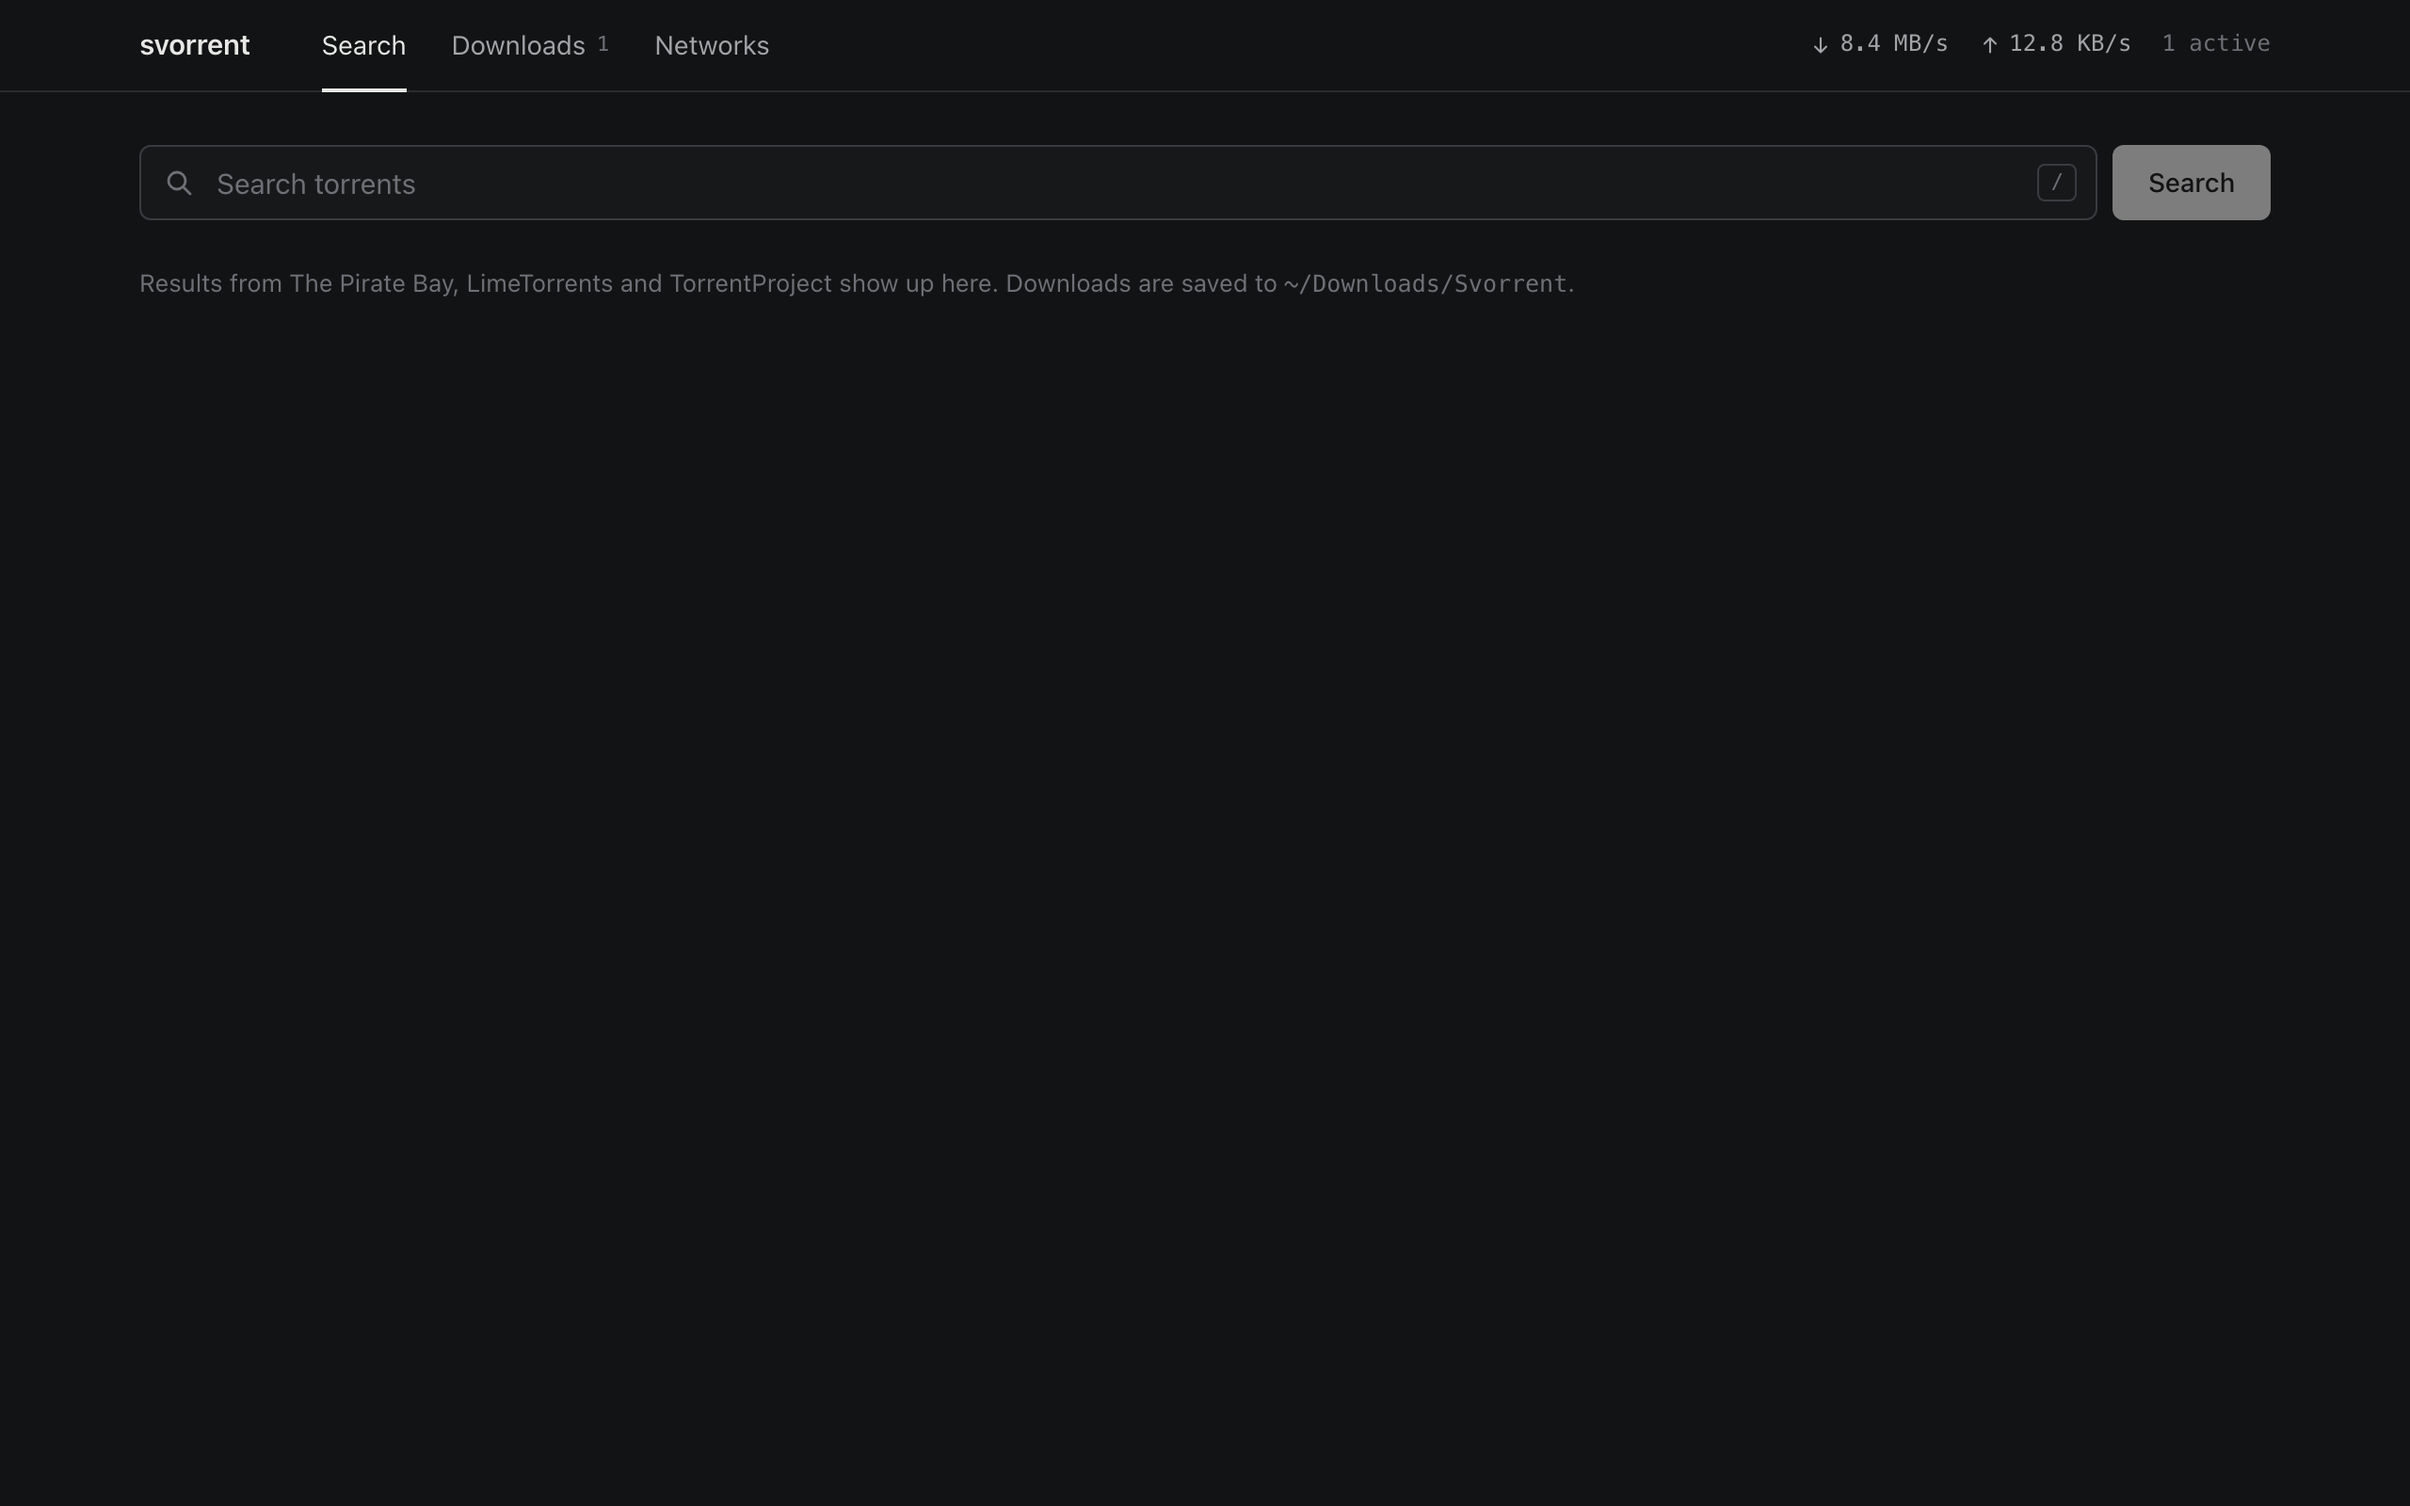
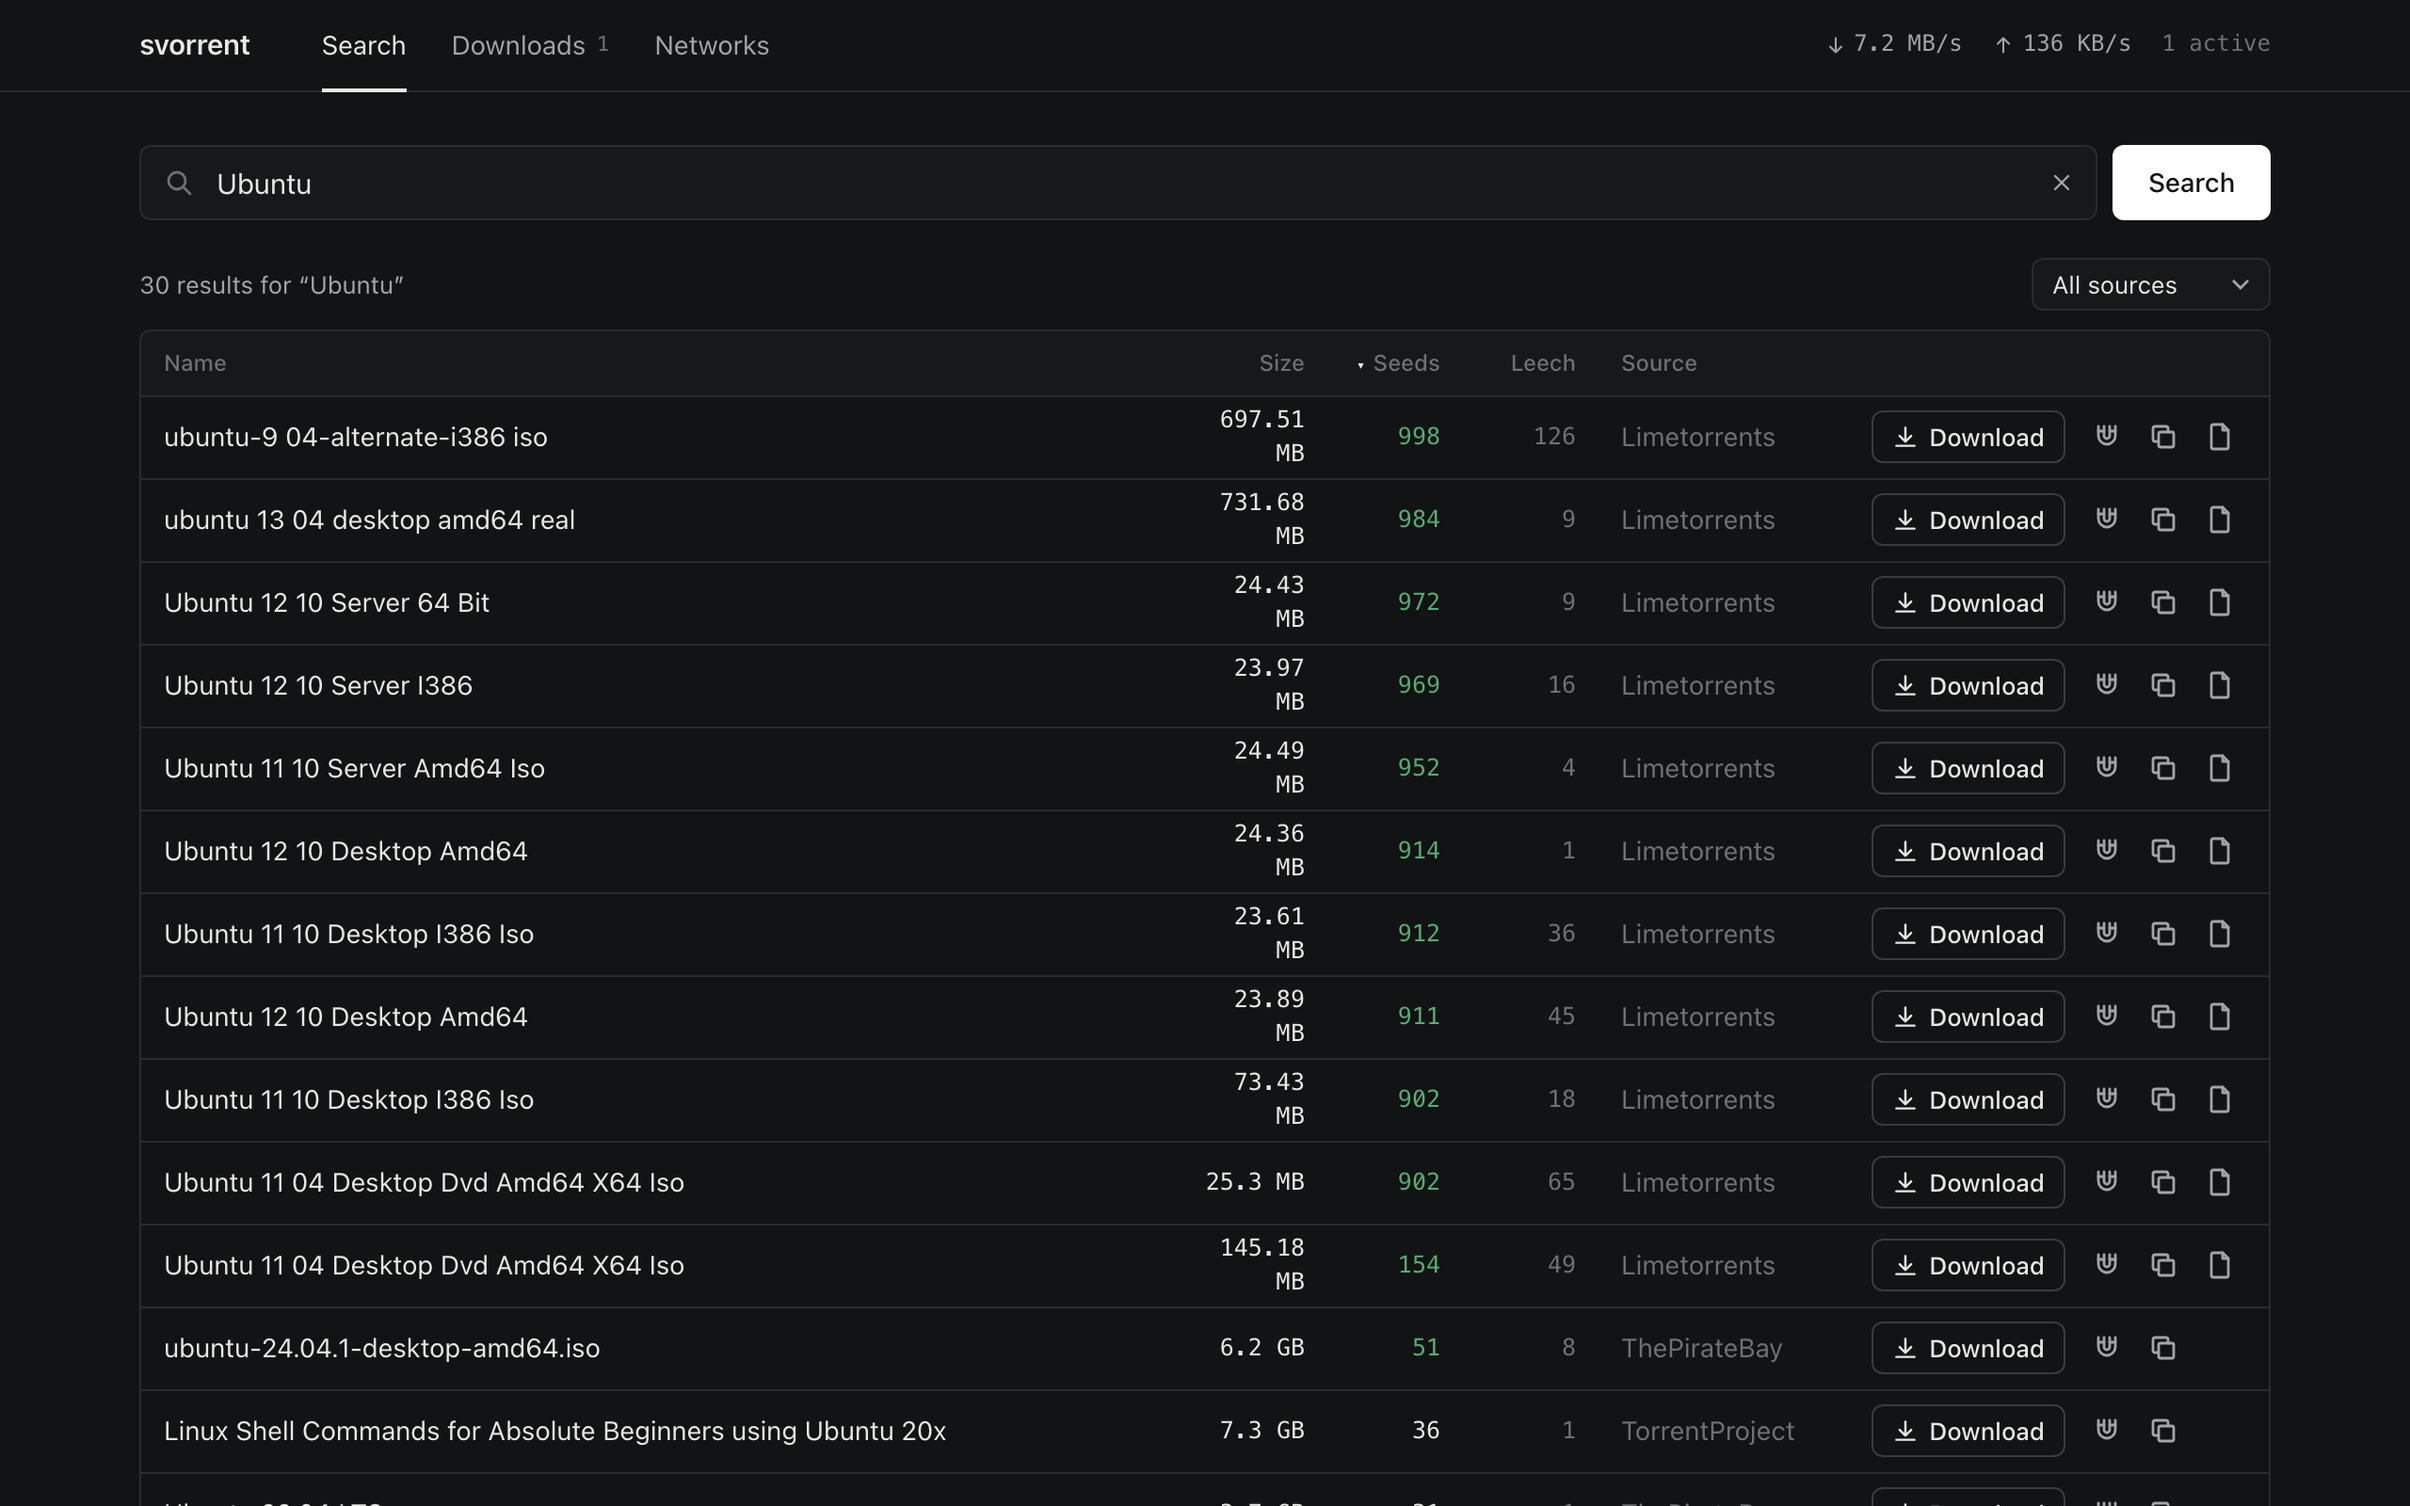
docs: reorder sections to Search -> Downloads -> Networks and capture populated search results

diff --git a/README.md b/README.md
@@ -1,49 +1,54 @@
 # Svorrent
 
-Svorrent is a local BitTorrent client and indexing engine built with Node.js, WebTorrent, and React. It implements sequential piece streaming, multi-network socket bonding across physical interfaces, offline GeoIP swarm visualization, and continuous buffer-free media playback.
+Svorrent is a local BitTorrent client and indexing engine built with Node.js, WebTorrent, and React. It implements multi-tracker search aggregation, sequential piece streaming with buffer-free playback, per-torrent swarm visualization, and multi-network socket bonding across physical interfaces.
 
 ---
 
-## Key Features
+## Features & Interface Workflow
 
-### 1. Multi-Interface Network Bonding
-Svorrent bonds multiple active network interfaces at the OS kernel socket level to aggregate download bandwidth across connections.
-- Outgoing peer TCP/uTP connections bind round-robin or proportionally across available network devices (`en0` Wi-Fi, `feth0` USB tether, `en1` Ethernet, etc.).
-- An autonomous Android tethering daemon (`scripts/tether-daemon.js`) polls for connected Android handsets via `adb`, configures RNDIS/NCM tethering mode automatically without passwords, assigns local DHCP leases, and establishes multi-path routes.
-
-![Network Bonding Interface](docs/screenshots/networks.png)
-
-### 2. Buffer-Free Streaming & Media Playback
-Instead of requiring a torrent to complete before playback, Svorrent calculates an objective buffer threshold and streams growing files directly into VLC or the system default video player.
-- The first 25 MB and initial 20 pieces are marked critical to ensure container headers, audio track definitions, and chapter indices download immediately.
-- Container runtimes are parsed asynchronously using `ffprobe`.
-- Svorrent continuously evaluates the physical streaming condition:
-  $$\text{Download ETA} \times 1.20 \le \text{Video Runtime}$$
-- The playback button remains disabled while buffering, displaying the exact byte deficit and estimated time remaining on hover. Once the safety margin is reached, the button enables and launches VLC directly against the expanding file on disk.
-
-![Downloads Manager and Streaming Controls](docs/screenshots/downloads.png)
-
-### 3. Swarm Topology & GeoIP Inspector
-Every active download includes an integrated swarm inspector accessible from the downloads list.
-- Renders an interactive vector SVG map displaying worldwide peer distributions without WebGL dependencies.
-- Translates remote peer IPs to physical countries and cities via offline `geoip-lite` databases.
-- Categorizes peer wires by physical network interface (Wi-Fi, USB Tether, Ethernet) with individual throughput counters.
-- Identifies remote client software signatures (qBittorrent, Transmission, libtorrent, Deluge).
-
-![Swarm Map and Topology Inspector](docs/screenshots/swarm_modal.png)
-
-### 4. Sequential Piece Allocation & Crash Recovery
-BitTorrent swarms natively distribute pieces out of order. Svorrent forces strict sequential piece acquisition to support in-progress media playback and predictable disk writes.
-- Bitfield verification checkpoints write to `session.json` on every verified piece.
-- If the daemon crashes or the system loses power, Svorrent reads existing disk blocks on startup and verifies bitfields against piece hashes, avoiding full re-downloads.
-- A local folder scanner detects orphaned or interrupted files in `~/Downloads/Svorrent` and matches them to magnet hashes for one-click resumption.
-
-### 5. Multi-Indexer Search Aggregation
-- Concurrently queries public indexers (The Pirate Bay, LimeTorrents, TorrentProject).
-- Deduplicates incoming results, normalizes byte representations, and sorts by seeders, leechers, or file size.
+### 1. Multi-Tracker Search Aggregation
+The search interface aggregates results concurrently across public indexers (including The Pirate Bay, LimeTorrents, and TorrentProject).
+- Queries are deduplicated, normalized, and sortable by seeds, leechers, file size, or indexer source.
 - Magnets launch directly into the download pipeline with a single click.
 
 ![Search Interface](docs/screenshots/search.png)
+
+### 2. Downloads Manager & Streaming Controls
+The downloads dashboard manages active transfers, sequential chunk scheduling, and instant media playback.
+
+![Downloads Manager](docs/screenshots/downloads.png)
+
+#### 2.1 Sequential Piece Scheduling & Crash Recovery
+- Forces sequential piece acquisition (from piece 0 to piece N) to enable immediate streaming instead of random piece distribution.
+- Prioritizes container headers and initial chapters (first 25 MB and initial 20 pieces) with critical queue weighting.
+- Atomic bitfield state checkpoints write to `session.json` on every verified block, ensuring that daemon restarts or power interruptions resume immediately from existing disk blocks without re-checking or re-downloading.
+- Scans `~/Downloads/Svorrent` to detect orphaned files and halfway downloads, matching them to magnet hashes for one-click resumption.
+
+#### 2.2 Buffer-Free Streaming & VLC Integration
+Instead of waiting for an entire file to finish downloading, Svorrent continuously evaluates the physical streaming condition:
+$$\text{Download ETA} \times 1.20 \le \text{Video Runtime}$$
+
+- Media container runtimes are extracted in the background via `ffprobe` (or estimated from container size if unprobed).
+- While downloading, the Play button remains disabled and greyed out, with its hover tooltip displaying the exact byte buffer needed and estimated time remaining until continuous playback is guaranteed.
+- Once the 20% safety threshold is satisfied, the Play button activates in cyan. Clicking it executes `open -a VLC <filepath>`, opening the growing file directly in VLC (or the system default media player).
+
+#### 2.3 Per-Torrent Swarm Topology & GeoIP Inspector
+Every download row includes an isolated Swarm Map button opening a per-torrent inspector.
+
+![Swarm Map and Topology Inspector](docs/screenshots/swarm_modal.png)
+
+- Renders an interactive vector SVG world map plotting peer centroids without WebGL overhead.
+- Maps remote peer IP addresses to countries and cities using an offline `geoip-lite` database.
+- Provides dynamic segmented filters across connected network interfaces (Wi-Fi, USB Tether, Ethernet, Bridges) with color-coded throughput metrics.
+- Displays ranked country contributions and a searchable peer wire table with remote client software identification (qBittorrent, Transmission, Deluge, libtorrent).
+
+### 3. Multi-Interface Network Bonding
+Svorrent aggregates bandwidth across multiple active network connections by binding outgoing peer sockets at the OS kernel level.
+
+![Network Bonding Interface](docs/screenshots/networks.png)
+
+- Outgoing TCP and uTP peer connections are distributed across available network devices (`en0` Wi-Fi, `feth0` Android USB tether, `en1` Ethernet) to maximize aggregate throughput.
+- An autonomous background daemon (`scripts/tether-daemon.js`) polls for connected Android devices via `adb`, enables USB tethering mode automatically without passwords, acquires local DHCP addresses, and configures multi-path routing rules.
 
 ---
 
@@ -67,10 +72,10 @@ svorrent/
 └── frontend/
     ├── src/
     │   ├── App.jsx              # Navigation and global polling loop
+    │   ├── SearchPage.jsx       # Multi-tracker search query interface
     │   ├── DownloadsManager.jsx # Download queue, action controls, and VLC triggers
     │   ├── SwarmModal.jsx       # Swarm inspector, country charts, and peer table
     │   ├── SwarmWorldMap.jsx    # SVG vector map with centroid peer plotting
-    │   ├── SearchPage.jsx       # Multi-tracker search query interface
     │   ├── NetworksPage.jsx     # Network adapter status and traffic telemetry
     │   └── TorrentDetails.jsx   # Inspector for trackers, files, and bitfield pieces
     └── package.json
@@ -82,9 +87,9 @@ svorrent/
 
 ### Prerequisites
 - Node.js (v18 or higher)
-- Optional: VLC Media Player installed (`/Applications/VLC.app` or `vlc` in PATH)
-- Optional: `ffprobe` installed for exact container runtime parsing
-- Optional for Android bonding: `adb` installed (`brew install android-platform-tools`)
+- Optional: VLC Media Player (`/Applications/VLC.app` or `vlc` in PATH)
+- Optional: `ffprobe` for container runtime extraction
+- Optional for Android bonding: `adb` (`brew install android-platform-tools`)
 
 ### 1. Backend Setup
 
@@ -94,7 +99,7 @@ npm install
 npm start
 ```
 
-The backend API initializes on `http://localhost:3001`. Torrents and partial downloads are stored in `~/Downloads/Svorrent/`.
+The API service runs on `http://localhost:3001`. Downloads are written to `~/Downloads/Svorrent/`.
 
 ### 2. Frontend Setup
 
@@ -104,17 +109,17 @@ npm install
 npm run dev
 ```
 
-The web dashboard is accessible at `http://localhost:5173`.
+The interface runs on `http://localhost:5173`.
 
 ### 3. Optional: Android USB Tether Daemon (macOS)
-To automatically bond an Android phone's mobile connection alongside Wi-Fi:
+To bond an Android phone's mobile connection alongside Wi-Fi automatically:
 
 ```bash
 cd backend
 npm run setup:tether
 ```
 
-This installs a background launchd daemon that detects Android devices connected via USB, enables tethering mode automatically, and exposes the `feth0` network interface to Svorrent.
+This installs a system launchd daemon that detects Android devices connected via USB, enables tethering mode, and configures the `feth0` network interface.
 
 ---
 
@@ -122,7 +127,7 @@ This installs a background launchd daemon that detects Android devices connected
 
 | Component | Implementation |
 | :--- | :--- |
-| BitTorrent Core | WebTorrent, bittorrent-protocol, bittorrent-dht |
+| BitTorrent Protocol | WebTorrent, bittorrent-protocol, bittorrent-dht |
 | Network Routing | OS socket binding via local IP assignment |
 | Media Analysis | ffprobe metadata extraction + analytic ETA-vs-runtime buffer formula |
 | Swarm Map | Native SVG with BBox centroid coordinates (zero WebGL) |
